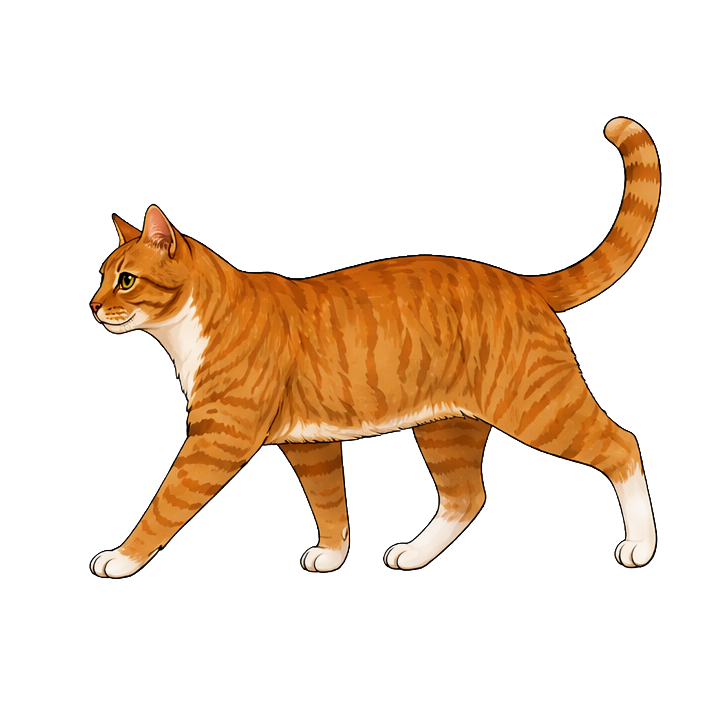
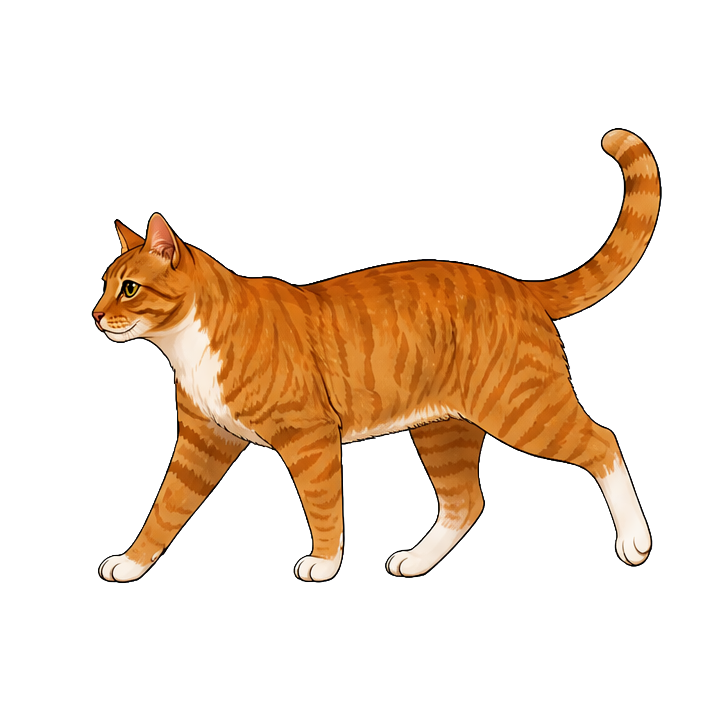
Polish Billy release packaging

Changed region(s): [[0.1222, 0.1528, 0.9167, 0.825]]

diff --git a/CatBuddy.swift b/CatBuddy.swift
@@ -2,6 +2,7 @@ import Cocoa
 
 enum PetMode {
     case auto
+    case calm
     case idle
     case sleep
 }
@@ -134,6 +135,68 @@ func loadPetSprites() -> PetSpriteFrames {
     }
 
     return .empty
+}
+
+func runFrameIndex(frameCount: Int, elapsed: TimeInterval) -> Int {
+    guard frameCount > 1 else {
+        return 0
+    }
+
+    let durations = (0 ..< frameCount).map { runFrameDuration(index: $0, frameCount: frameCount) }
+    let totalDuration = durations.reduce(0, +)
+    guard totalDuration > 0 else {
+        return 0
+    }
+
+    var remaining = elapsed.truncatingRemainder(dividingBy: totalDuration)
+    for (index, duration) in durations.enumerated() {
+        if remaining < duration {
+            return index
+        }
+        remaining -= duration
+    }
+    return frameCount - 1
+}
+
+func runFrameDuration(index: Int, frameCount: Int) -> TimeInterval {
+    let fastest: TimeInterval = 0.2
+    let slowest: TimeInterval = 0.5
+    guard frameCount > 2 else {
+        return slowest
+    }
+
+    let distanceFromCenter: Int
+    let maxDistance: Int
+    if frameCount.isMultiple(of: 2) {
+        let leftCenter = frameCount / 2 - 1
+        let rightCenter = frameCount / 2
+        if index <= leftCenter {
+            distanceFromCenter = leftCenter - index
+        } else {
+            distanceFromCenter = index - rightCenter
+        }
+        maxDistance = max(leftCenter, frameCount - 1 - rightCenter)
+    } else {
+        let center = frameCount / 2
+        distanceFromCenter = abs(index - center)
+        maxDistance = max(center, frameCount - 1 - center)
+    }
+
+    guard maxDistance > 0 else {
+        return fastest
+    }
+    let progress = Double(distanceFromCenter) / Double(maxDistance)
+    return fastest + (slowest - fastest) * progress
+}
+
+func averageRunFrameDuration(frameCount: Int) -> TimeInterval {
+    guard frameCount > 0 else {
+        return 0.5
+    }
+    let totalDuration = (0 ..< frameCount).reduce(TimeInterval(0)) { total, index in
+        total + runFrameDuration(index: index, frameCount: frameCount)
+    }
+    return totalDuration / Double(frameCount)
 }
 
 final class PetCanvasView: NSView {
@@ -449,55 +512,10 @@ final class PetCanvasView: NSView {
     }
 
     private func elasticRunFrameIndex(frameCount: Int) -> Int {
-        guard frameCount > 1 else {
-            return 0
-        }
-
-        let durations = (0 ..< frameCount).map { elasticRunFrameDuration(index: $0, frameCount: frameCount) }
-        let totalDuration = durations.reduce(0, +)
-        guard totalDuration > 0 else {
-            return 0
-        }
-
-        var elapsed = (ProcessInfo.processInfo.systemUptime - actionStartTime).truncatingRemainder(dividingBy: totalDuration)
-        for (index, duration) in durations.enumerated() {
-            if elapsed < duration {
-                return index
-            }
-            elapsed -= duration
-        }
-        return frameCount - 1
-    }
-
-    private func elasticRunFrameDuration(index: Int, frameCount: Int) -> TimeInterval {
-        let fastest: TimeInterval = 0.2
-        let slowest: TimeInterval = 0.5
-        guard frameCount > 2 else {
-            return slowest
-        }
-
-        let distanceFromCenter: Int
-        let maxDistance: Int
-        if frameCount.isMultiple(of: 2) {
-            let leftCenter = frameCount / 2 - 1
-            let rightCenter = frameCount / 2
-            if index <= leftCenter {
-                distanceFromCenter = leftCenter - index
-            } else {
-                distanceFromCenter = index - rightCenter
-            }
-            maxDistance = max(leftCenter, frameCount - 1 - rightCenter)
-        } else {
-            let center = frameCount / 2
-            distanceFromCenter = abs(index - center)
-            maxDistance = max(center, frameCount - 1 - center)
-        }
-
-        guard maxDistance > 0 else {
-            return fastest
-        }
-        let progress = Double(distanceFromCenter) / Double(maxDistance)
-        return fastest + (slowest - fastest) * progress
+        runFrameIndex(
+            frameCount: frameCount,
+            elapsed: ProcessInfo.processInfo.systemUptime - actionStartTime
+        )
     }
 
     private func pingPongIndex(frameCount: Int, pace: Int) -> Int {
@@ -524,10 +542,12 @@ final class AppDelegate: NSObject, NSApplicationDelegate {
     private var userIsInteracting = false
 
     private var mode: PetMode = .auto
+    private var actionStartTime = ProcessInfo.processInfo.systemUptime
     private var action: PetAction = .idle {
         didSet {
             if oldValue != action {
                 frameTick = 0
+                actionStartTime = ProcessInfo.processInfo.systemUptime
             }
             petView?.action = action
         }
@@ -662,7 +682,7 @@ final class AppDelegate: NSObject, NSApplicationDelegate {
         clearWalkState()
 
         switch nextMode {
-        case .auto:
+        case .auto, .calm:
             action = .idle
             scheduleNextBehavior(after: Double.random(in: 2.2 ... 4.2))
         case .idle:
@@ -674,7 +694,7 @@ final class AppDelegate: NSObject, NSApplicationDelegate {
 
     private func scheduleNextBehavior(after delay: TimeInterval) {
         behaviorTimer?.invalidate()
-        guard mode == .auto else {
+        guard isAutonomousMode else {
             return
         }
 
@@ -684,31 +704,47 @@ final class AppDelegate: NSObject, NSApplicationDelegate {
     }
 
     private func chooseRandomBehavior() {
-        guard mode == .auto else {
+        guard isAutonomousMode else {
             return
         }
 
-        let roll = Double.random(in: 0 ... 1)
-        if roll < 0.26 {
-            action = .idle
-            scheduleNextBehavior(after: Double.random(in: 3.5 ... 5.5))
-        } else if roll < 0.44 {
-            action = .observe
-            scheduleNextBehavior(after: Double.random(in: 4.2 ... 6.8))
-        } else if roll < 0.50 {
-            action = .stretch
-            scheduleNextBehavior(after: Double.random(in: 3.2 ... 5.0))
-        } else if roll < 0.68 {
-            startWalk()
-        } else if roll < 0.76 {
-            startRun()
-        } else if roll < 0.90 {
-            action = .groom
-            scheduleNextBehavior(after: Double.random(in: 5.0 ... 9.0))
-        } else {
-            action = .sleep
-            scheduleNextBehavior(after: Double.random(in: 7.0 ... 12.0))
+        let movementScale = mode == .calm ? 0.3 : 1.0
+        let behaviors: [(weight: Double, perform: () -> Void)] = [
+            (0.26, { [weak self] in
+                self?.action = .idle
+                self?.scheduleNextBehavior(after: Double.random(in: 3.5 ... 5.5))
+            }),
+            (0.18, { [weak self] in
+                self?.action = .observe
+                self?.scheduleNextBehavior(after: Double.random(in: 4.2 ... 6.8))
+            }),
+            (0.06, { [weak self] in
+                self?.action = .stretch
+                self?.scheduleNextBehavior(after: Double.random(in: 3.2 ... 5.0))
+            }),
+            (0.18 * movementScale, { [weak self] in self?.startWalk() }),
+            (0.08 * movementScale, { [weak self] in self?.startRun() }),
+            (0.14, { [weak self] in
+                self?.action = .groom
+                self?.scheduleNextBehavior(after: Double.random(in: 5.0 ... 9.0))
+            }),
+            (0.10, { [weak self] in
+                self?.action = .sleep
+                self?.scheduleNextBehavior(after: Double.random(in: 7.0 ... 12.0))
+            })
+        ]
+        let totalWeight = behaviors.reduce(0) { $0 + $1.weight }
+        var roll = Double.random(in: 0 ..< totalWeight)
+        for behavior in behaviors {
+            roll -= behavior.weight
+            if roll <= 0 {
+                behavior.perform()
+                return
+            }
         }
+
+        action = .idle
+        scheduleNextBehavior(after: Double.random(in: 3.5 ... 5.5))
     }
 
     private func handleTap() {
@@ -720,7 +756,9 @@ final class AppDelegate: NSObject, NSApplicationDelegate {
     }
 
     private func shooPet(from clickPoint: NSPoint) {
-        mode = .auto
+        if !isAutonomousMode {
+            mode = .auto
+        }
         behaviorTimer?.invalidate()
         clearWalkState()
 
@@ -749,19 +787,35 @@ final class AppDelegate: NSObject, NSApplicationDelegate {
     }
 
     private func showContextMenu() {
-        let menu = NSMenu(title: "Billy")
-        menu.addItem(withTitle: "自动散步", action: #selector(menuAuto), keyEquivalent: "")
-        menu.addItem(withTitle: "发呆", action: #selector(menuIdle), keyEquivalent: "")
-        menu.addItem(withTitle: "观察", action: #selector(menuObserve), keyEquivalent: "")
-        menu.addItem(withTitle: "伸懒腰", action: #selector(menuStretch), keyEquivalent: "")
-        menu.addItem(withTitle: "舔爪洗脸", action: #selector(menuGroom), keyEquivalent: "")
-        menu.addItem(withTitle: "睡觉", action: #selector(menuSleep), keyEquivalent: "")
+        let menu = NSMenu()
+        menu.autoenablesItems = false
+
+        let autoItem = NSMenuItem(title: "自由活动", action: #selector(menuAuto), keyEquivalent: "")
+        autoItem.target = self
+        menu.addItem(autoItem)
+
+        let calmItem = NSMenuItem(title: "求你别动", action: #selector(menuCalm), keyEquivalent: "")
+        calmItem.target = self
+        menu.addItem(calmItem)
+
         menu.addItem(.separator())
-        menu.addItem(withTitle: "退出", action: #selector(menuQuit), keyEquivalent: "")
-        NSMenu.popUpContextMenu(menu, with: NSApp.currentEvent!, for: petView)
+
+        let quitItem = NSMenuItem(title: "退出", action: #selector(menuQuit), keyEquivalent: "")
+        quitItem.target = self
+        menu.addItem(quitItem)
+
+        let popupPoint: NSPoint
+        if let event = NSApp.currentEvent {
+            popupPoint = petView.convert(event.locationInWindow, from: nil)
+        } else {
+            popupPoint = NSPoint(x: petPosition.x, y: petPosition.y + 60)
+        }
+        menu.popUp(positioning: nil, at: popupPoint, in: petView)
+        updateMousePassthrough()
     }
 
     @objc private func menuAuto() { setMode(.auto) }
+    @objc private func menuCalm() { setMode(.calm) }
     @objc private func menuIdle() { setMode(.idle) }
     @objc private func menuObserve() {
         mode = .idle
@@ -774,6 +828,12 @@ final class AppDelegate: NSObject, NSApplicationDelegate {
         behaviorTimer?.invalidate()
         clearWalkState()
         action = .stretch
+    }
+    @objc private func menuRun() {
+        mode = .idle
+        behaviorTimer?.invalidate()
+        clearWalkState()
+        startRun()
     }
     @objc private func menuGroom() {
         mode = .idle
@@ -812,7 +872,7 @@ final class AppDelegate: NSObject, NSApplicationDelegate {
             let edgeTurnDirection = pendingEdgeTurnDirection
             clearWalkState()
             action = .idle
-            if let edgeTurnDirection, mode == .auto {
+            if let edgeTurnDirection, isAutonomousMode {
                 scheduleEdgeTurn(direction: edgeTurnDirection, after: Double.random(in: 0.45 ... 1.1))
             } else {
                 scheduleNextBehavior(after: Double.random(in: 0.8 ... 1.6))
@@ -825,7 +885,26 @@ final class AppDelegate: NSObject, NSApplicationDelegate {
     }
 
     private func currentMoveSpeed() -> CGFloat {
-        isRunning ? runSpeed : walkSpeed
+        guard isRunning else {
+            return walkSpeed
+        }
+        return runSpeed * currentRunMovementScale()
+    }
+
+    private func currentRunMovementScale() -> CGFloat {
+        let frameCount = petView.spriteFrames.frames(for: action).count
+        guard frameCount > 1 else {
+            return 1
+        }
+
+        let elapsed = ProcessInfo.processInfo.systemUptime - actionStartTime
+        let frameIndex = runFrameIndex(frameCount: frameCount, elapsed: elapsed)
+        let currentDuration = runFrameDuration(index: frameIndex, frameCount: frameCount)
+        guard currentDuration > 0 else {
+            return 1
+        }
+
+        return CGFloat(averageRunFrameDuration(frameCount: frameCount) / currentDuration)
     }
 
     private func startWalk() {
@@ -901,7 +980,7 @@ final class AppDelegate: NSObject, NSApplicationDelegate {
 
     private func scheduleEdgeTurn(direction: CGFloat, after delay: TimeInterval) {
         behaviorTimer?.invalidate()
-        guard mode == .auto else {
+        guard isAutonomousMode else {
             return
         }
 
@@ -911,7 +990,7 @@ final class AppDelegate: NSObject, NSApplicationDelegate {
     }
 
     private func startWalkAwayFromEdge(direction: CGFloat) {
-        guard mode == .auto else {
+        guard isAutonomousMode else {
             return
         }
 
@@ -979,6 +1058,10 @@ final class AppDelegate: NSObject, NSApplicationDelegate {
 
     private var isWalking: Bool {
         action == .walkLeft || action == .walkRight || isRunning
+    }
+
+    private var isAutonomousMode: Bool {
+        mode == .auto || mode == .calm
     }
 
     private var isRunning: Bool {

diff --git a/README.md b/README.md
@@ -46,7 +46,8 @@ cd native-swift
 - 左键单击可让行走中的猫停下
 - 左键双击会驱赶它向远处走开
 - 左键拖动可在接近全屏范围内换位置
-- 右键菜单支持：自动散步、发呆、观察、伸懒腰、舔爪洗脸、睡觉、退出
+- 磨砂玻璃右键菜单支持：自由活动、求你别动、退出
+- “求你别动”会继续自动活动，但把散步和冲刺跑触发概率降低 70%
 
 ## 动画素材
 